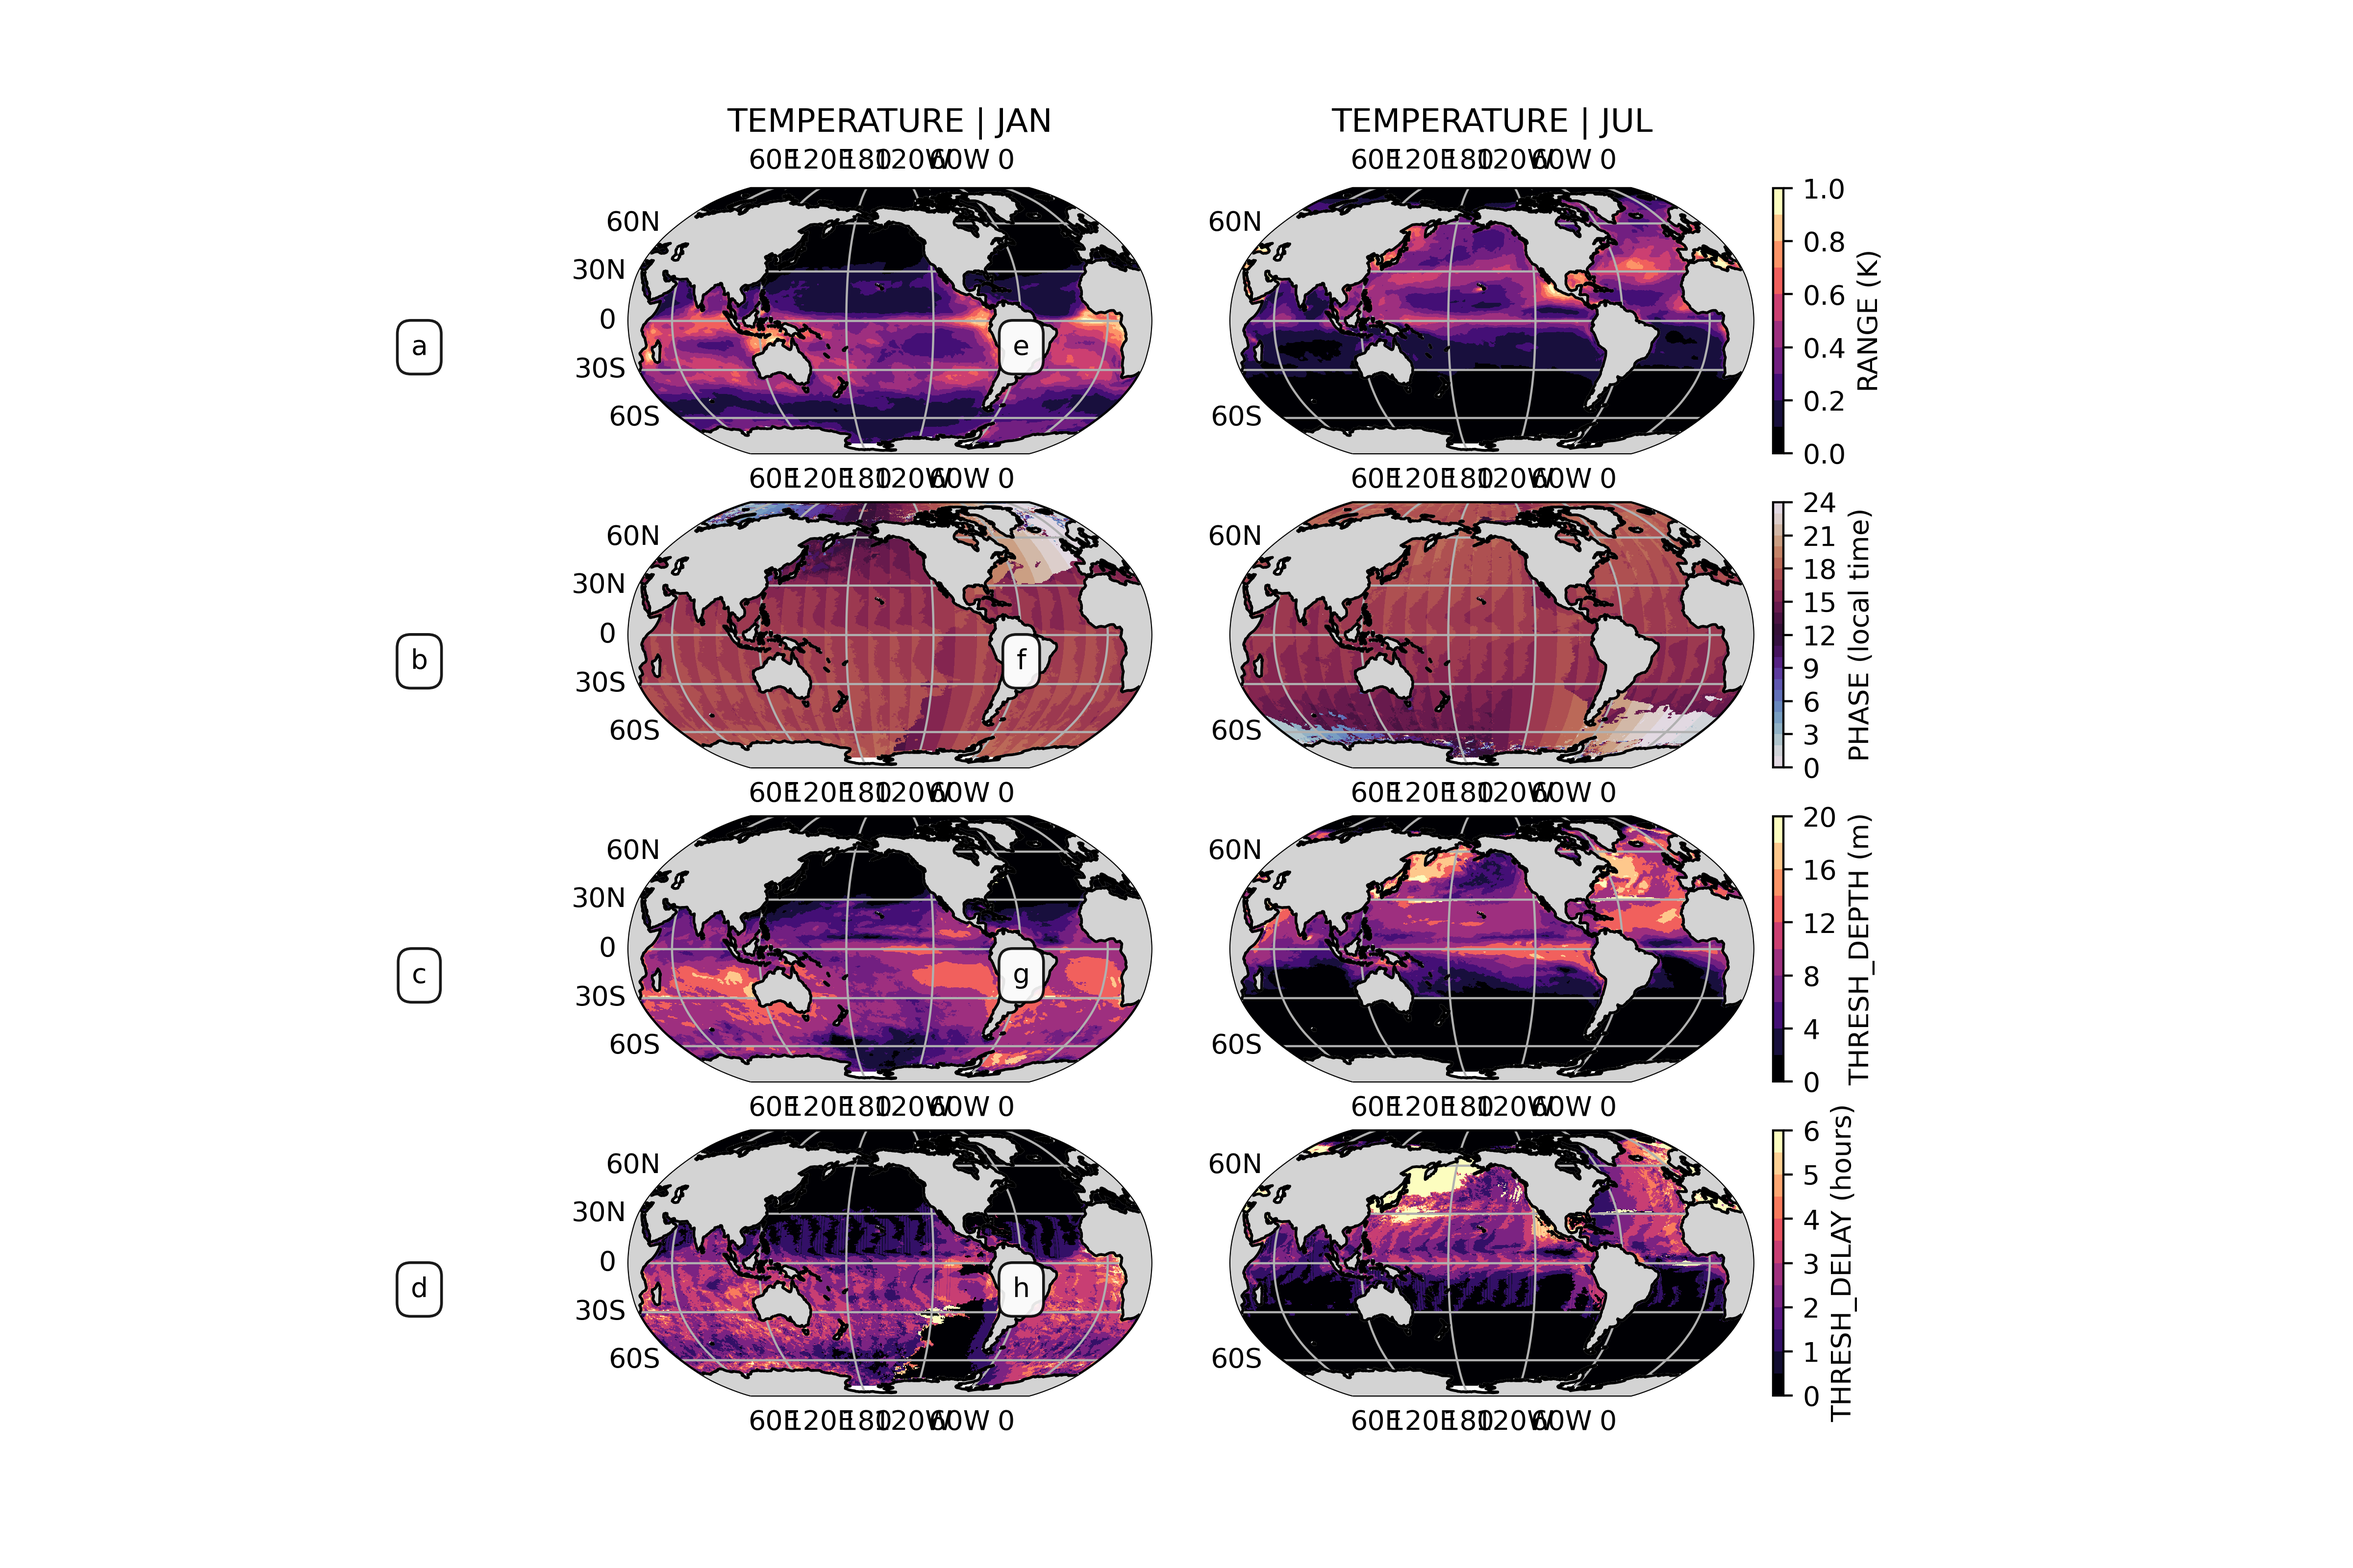
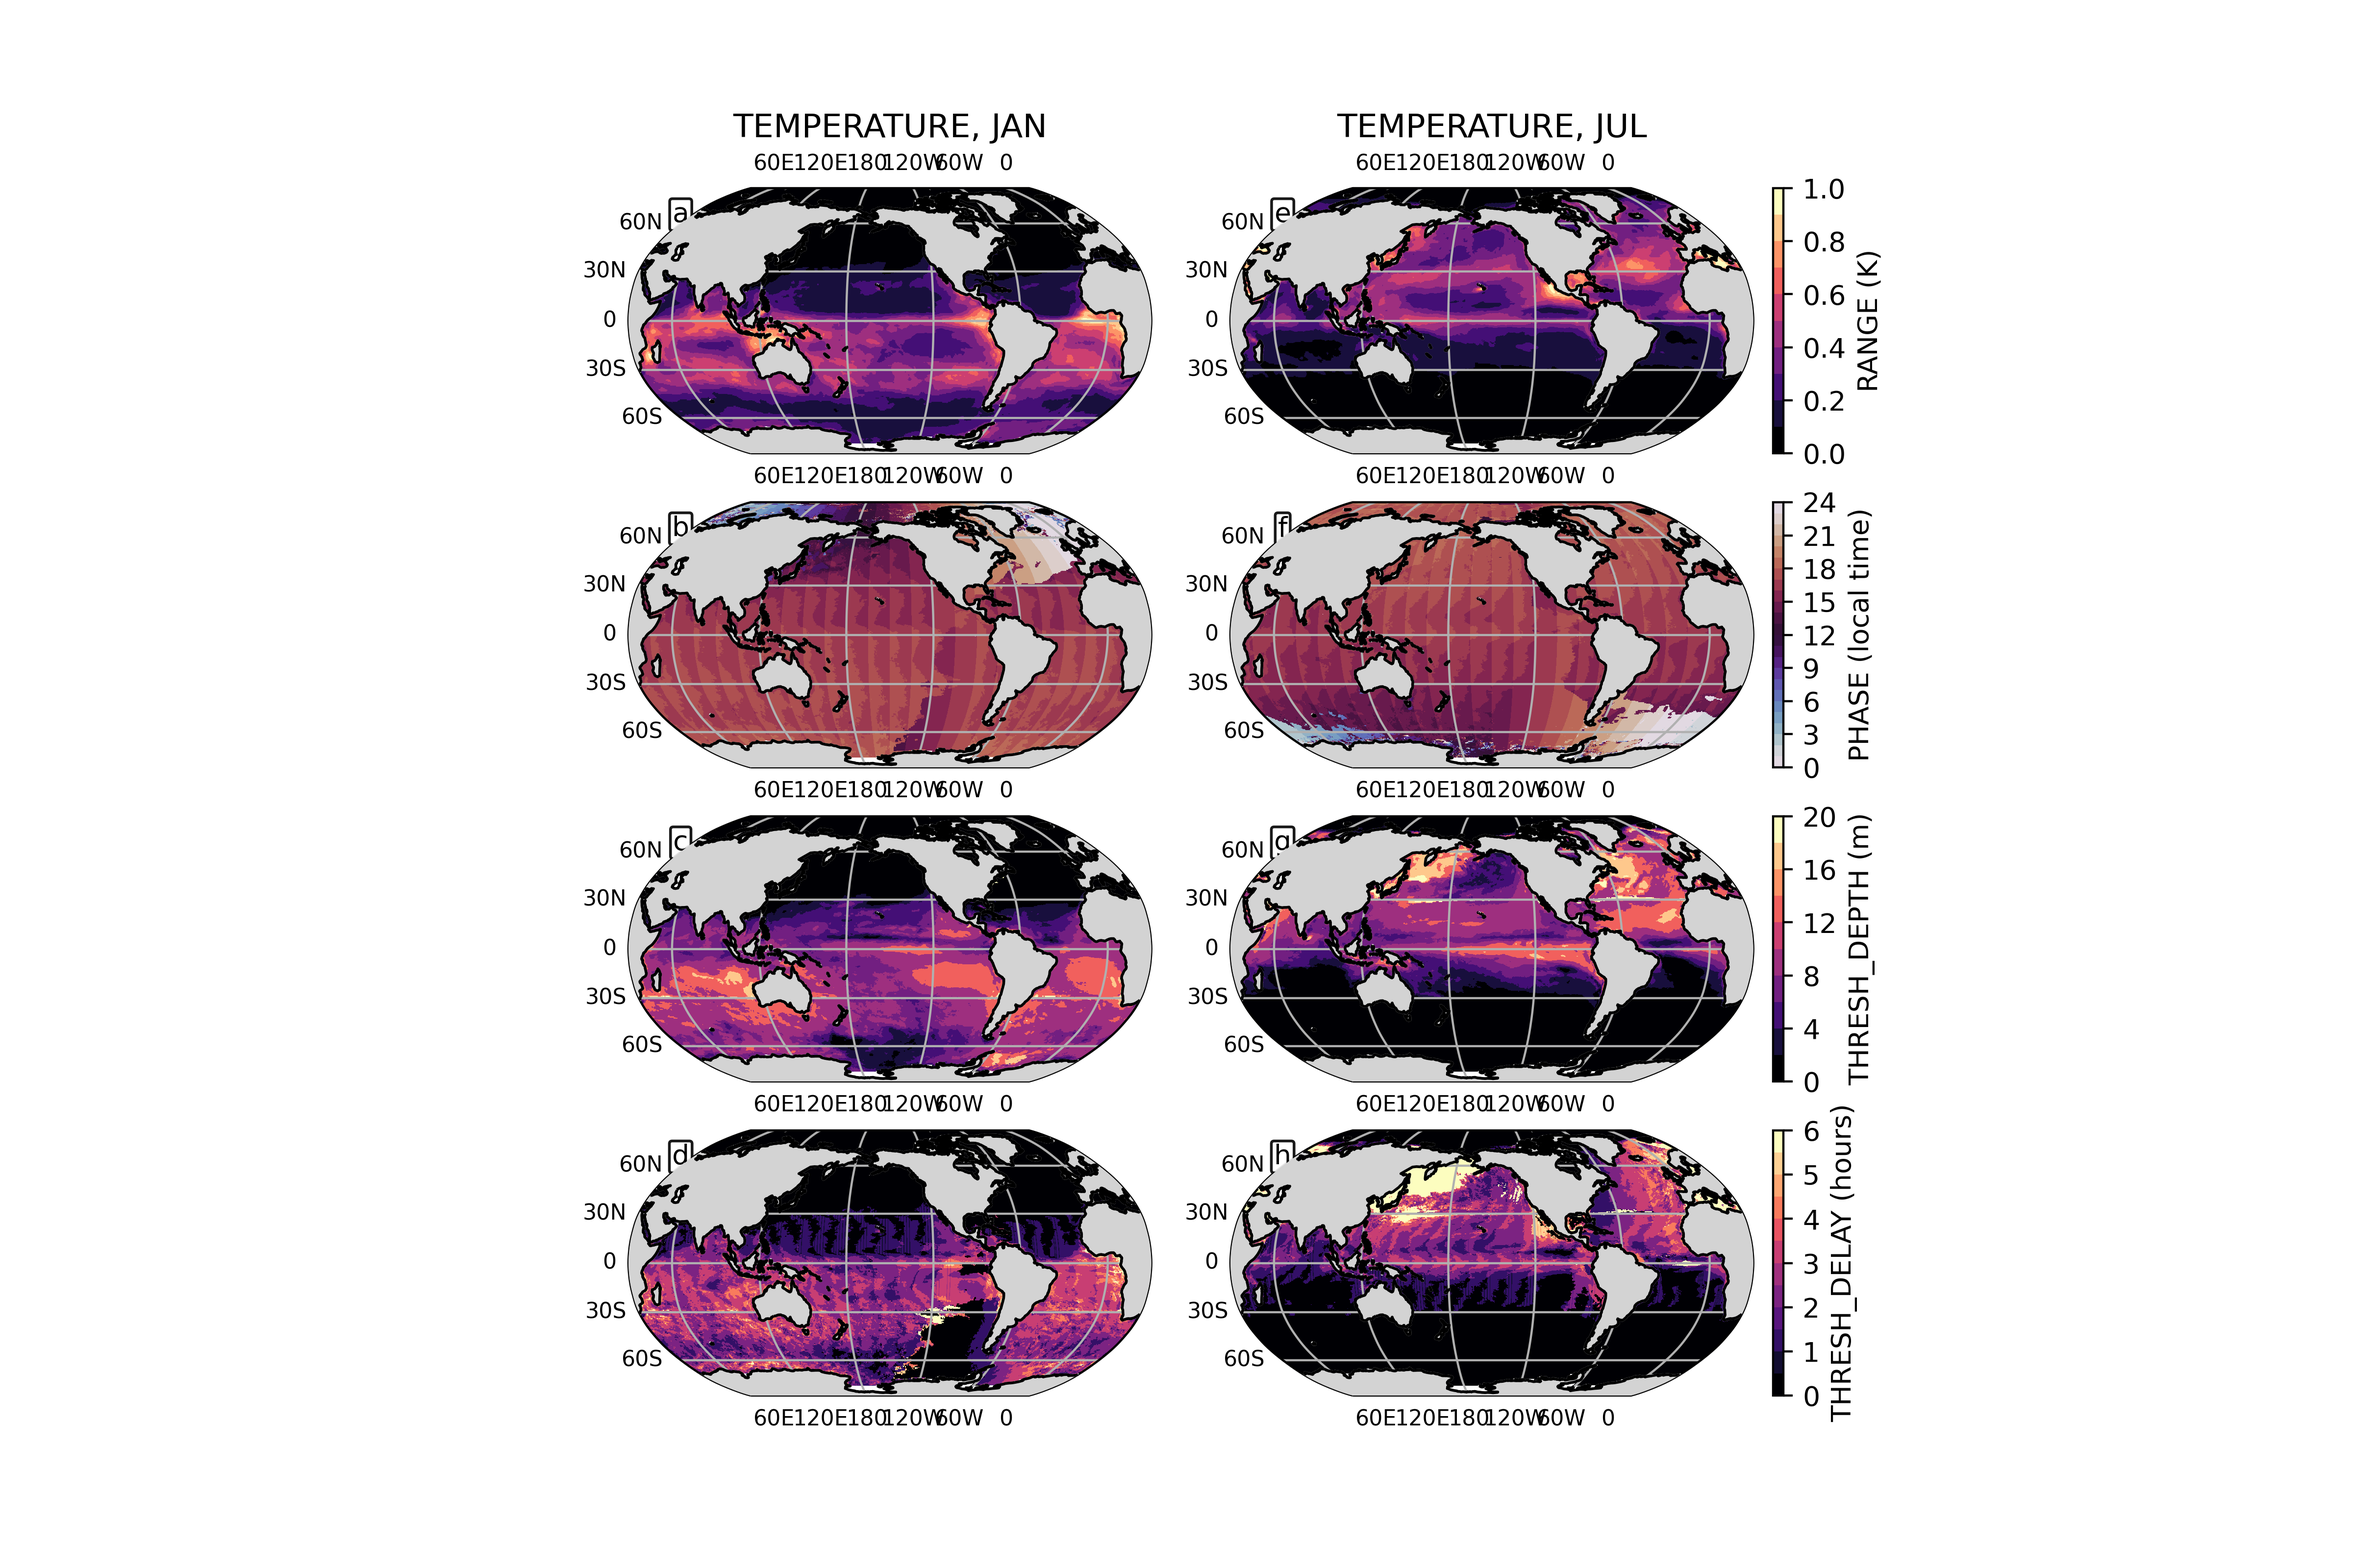
Tweaks 2col map.

diff --git a/diurnal_cycle/analysis/diurnal_cycle_2col_maps.py b/diurnal_cycle/analysis/diurnal_cycle_2col_maps.py
@@ -123,13 +123,11 @@ def main(plot_var, plot_month1, plot_month2):
         else:
             gl.top_labels = False
             gl.bottom_labels = True
-        if i < 4:
-            gl.left_labels = True
-        else:
-            gl.left_labels = False
+        gl.left_labels = True
         gl.xformatter = LongitudeFormatter(zero_direction_label=False,
                                            degree_symbol='')
-        plt.xticks(rotation='vertical')
+        gl.xlabel_style = {'size':8}
+        gl.ylabel_style = {'size':8}
         gl.yformatter = LatitudeFormatter(degree_symbol='')
         ax.coastlines(zorder=5)
         ax.add_feature(cfeature.LAND, facecolor='lightgray', zorder=4)
@@ -165,7 +163,7 @@ def main(plot_var, plot_month1, plot_month2):
     
         # Titles.
         if ptype in ['RANGE']:
-            ax.set_title(plot_dets(plot_var, 'plotname') + ' | ' + mon)
+            ax.set_title(plot_dets(plot_var, 'plotname') + ', ' + mon)
         else:
             pass
 
@@ -179,10 +177,10 @@ def main(plot_var, plot_month1, plot_month2):
                          ' (' + plot_dets(plot_var, 'units', ptype) + ')')
         
         # Add figure letters (a, b, c, etc.).
-        ax.text(-0.4, 0.4, fig_letters[i],
+        ax.text(0.1, 0.9, fig_letters[i],
                 transform=ax.transAxes,
                 horizontalalignment='center', verticalalignment='center',
-                bbox={'facecolor':'white', 'alpha':0.9, 'pad':0.5,
+                bbox={'facecolor':'white', 'alpha':0.9, 'pad':0.1,
                       'boxstyle':'round'})
     
     # Save file.
